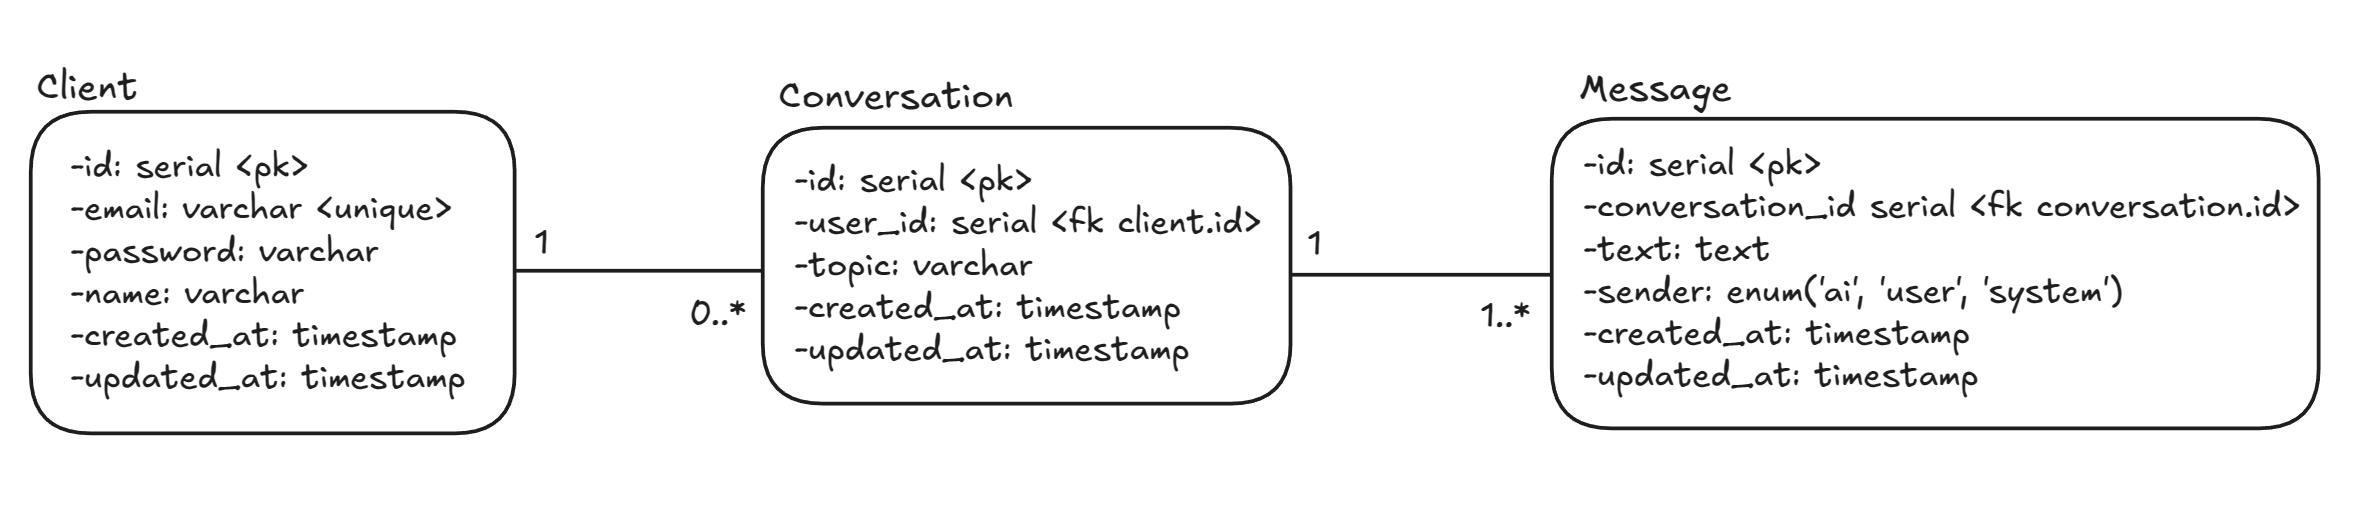
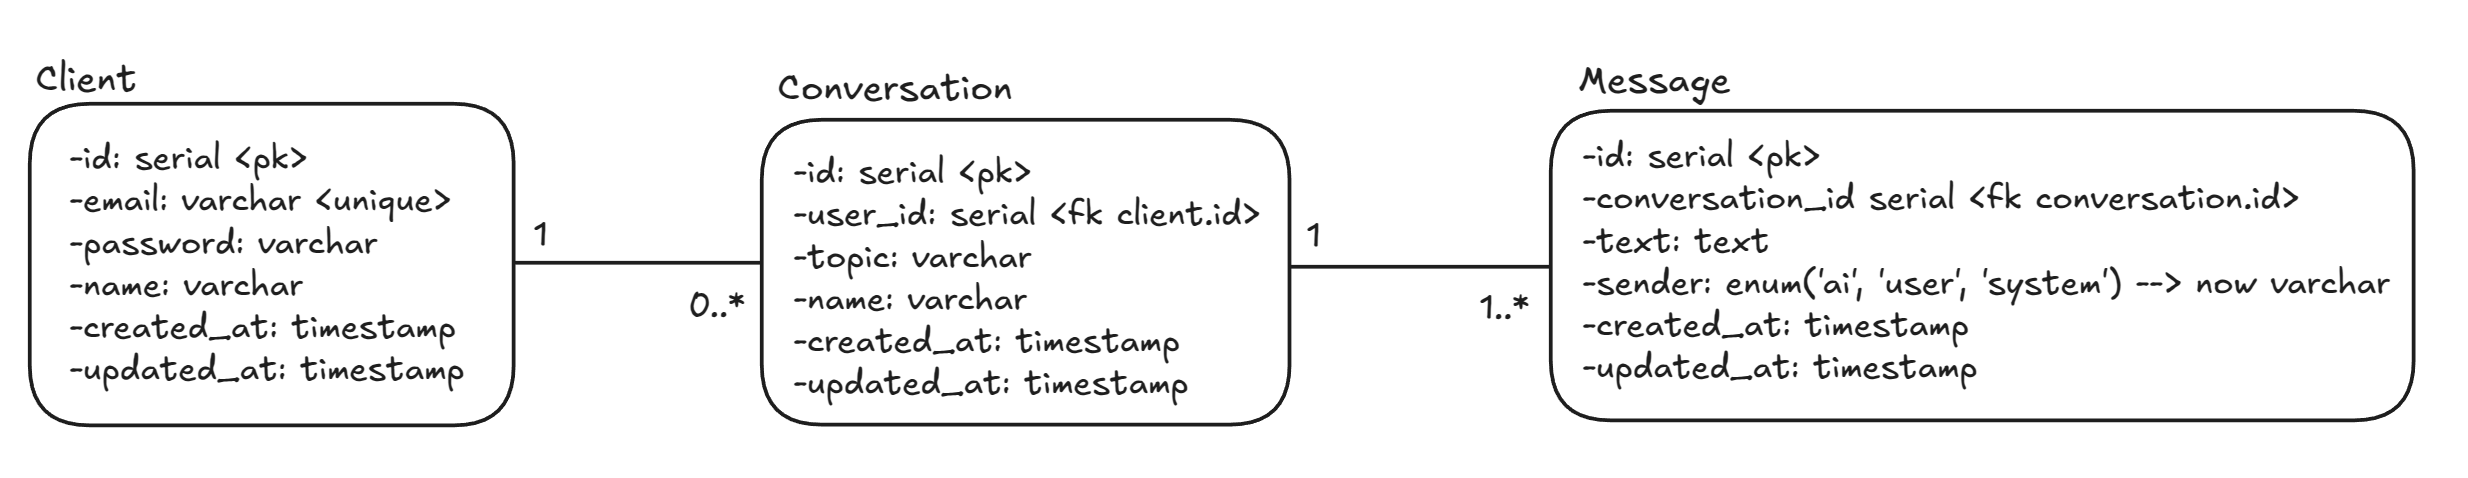
First project docs + tweaks to class diagram

diff --git a/docs/project_docs.md b/docs/project_docs.md
@@ -1,0 +1,24 @@
+Note:  
+*This document contains information about the full stack UI application for the MAPIT AI Domain Expert Tool. This is currently a work in progress, so the documentation here will be a bit messy to begin with and gradually turn into an important document.*
+
+
+## Tech Stack
+
+**Frontend**  
+- Svelte 5 (SvelteKit)
+- Typescript
+- Tailwind CSS
+
+**Backend**
+- Node JS
+- SvelteKit
+- Drizzle ORM
+
+**Database**
+- Supabase (PostgreSQL)
+
+## General Info
+
+ **Schema**  
+ All tables are created with *created_at* and *updated_at* columns. These columns contain a timestamp in the UTC timezone.  
+
